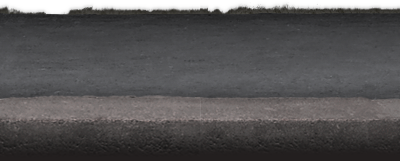
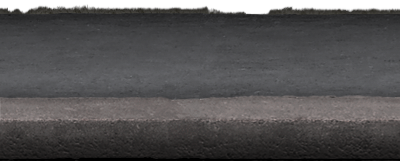
add visual elements to the background

diff --git a/public/css/main.css b/public/css/main.css
@@ -634,28 +634,31 @@ textarea {
 /* Layout
    -------------------------------------------------------------------------- */
 html {
-  background: black url(img/concrete.png);
+  background: linear-gradient(to top, rgba(0, 0, 0, 0.45), transparent 300px, transparent), url(img/concrete.jpg);
   border-top: 6px solid #e67300;
   position: relative; }
   html:after {
     content: "";
-    background: url(img/sidewalk.png) repeat-x;
-    height: 155px;
+    background: url(img/sidewalk.png) bottom repeat-x;
     position: absolute;
+    top: 0;
     right: 0;
     bottom: 0;
-    left: 0; }
+    left: 0;
+    z-index: 0; }
 
 body {
   font-size: 1.8em;
-  margin: 6px 0 210px; }
+  margin: 6px 0 210px;
+  position: relative;
+  z-index: 1; }
 
 /* Header
    -------------------------------------------------------------------------- */
 body > header {
   font-size: .75em;
   color: #e6e6e6;
-  text-shadow: 1px 1px 1px black;
+  text-shadow: 1px 1px 0 black;
   margin: 1.5em 1em; }
   body > header h1 {
     font-weight: normal;
@@ -671,7 +674,7 @@ body > header {
   margin: 2em auto 0; }
   [role="main"] > article {
     background: #e6e6e6 url(img/paper.png);
-    box-shadow: 0 0 3px black;
+    box-shadow: 0 0 2px rgba(0, 0, 0, 0.75);
     padding: .9em; }
     [role="main"] > article header {
       text-align: center; }
@@ -681,10 +684,11 @@ body > header {
       display: inline-block;
       border-bottom: 3px solid #4d4d4d; }
   [role="main"] > aside {
+    font-size: 1.2em;
+    text-shadow: 1px 1px 0px rgba(0, 0, 0, 0.45);
     margin-top: 3em; }
     [role="main"] > aside ul {
       display: table;
-      font-size: 1.2em;
       list-style: none;
       padding: 0;
       margin: 0 auto; }
@@ -700,6 +704,14 @@ body > header {
     40
    -------------------------------------------------------------------------- */
 @media only screen and (min-width: 40em) {
+  /*  Layout
+     ---------------------------------- */
+  html:after {
+    background: url(img/letterbox.png) left 120% bottom 90px no-repeat, url(img/sidewalk.png) bottom repeat-x; }
+
+  body {
+    margin-bottom: 240px; }
+
   /*  Header
      ---------------------------------- */
   body > header {
@@ -720,10 +732,12 @@ body > header {
       margin: 0 -1.5em;
       padding: 1.5em;
       border-radius: 2px; }
+    [role="main"] > aside ul {
+      display: block;
+      margin-right: 30%; }
     [role="main"] > aside li {
       display: inline-block;
-      width: 40%;
-      margin: 0 0 0 10%; }
+      width: 50%; }
     [role="main"] > aside li + li {
       margin-top: 0; }
     [role="main"] > aside li:nth-child(n+3) {
@@ -732,6 +746,11 @@ body > header {
     60
    -------------------------------------------------------------------------- */
 @media only screen and (min-width: 60em) {
+  /*  Layout
+     ---------------------------------- */
+  html:after {
+    background-position: right 12% bottom 96px, bottom; }
+
   /*  Main
      ---------------------------------- */
   [role="main"] {
@@ -749,7 +768,8 @@ body > header {
       clear: both; }
     [role="main"] > article {
       float: left;
-      width: 65%; }
+      width: 65%;
+      box-shadow: 1px 1px 3px rgba(0, 0, 0, 0.75); }
     [role="main"] > aside {
       float: right;
       width: 30%;
@@ -762,6 +782,14 @@ body > header {
         width: auto; }
       [role="main"] > aside li + li {
         margin-top: 1em; } }
+/* --------------------------------------------------------------------------
+    90
+   -------------------------------------------------------------------------- */
+@media only screen and (min-width: 90em) {
+  /*  Layout
+     ---------------------------------- */
+  html:after {
+    background: url(img/letterbox.png) right 210px bottom 96px no-repeat, url(img/graff.png) left -240px bottom 180px no-repeat, url(img/sidewalk.png) bottom repeat-x; } }
 /* ==========================================================================
     PRINT
    ========================================================================== */

diff --git a/public/scss/main.scss b/public/scss/main.scss
@@ -12,23 +12,28 @@
    -------------------------------------------------------------------------- */
 
 html {
-  background: black url(img/concrete.png);
+  background:
+    linear-gradient(to top, rgba(0,0,0,.45), transparent 300px, transparent),
+    url(img/concrete.jpg);
   border-top: 6px solid $orange;
   position: relative;
   &:after {
     content: "";
-    background: url(img/sidewalk.png) repeat-x;
-    height: 155px;
+    background: url(img/sidewalk.png) bottom repeat-x;
     position: absolute;
+    top: 0;
     right: 0;
     bottom: 0;
     left: 0;
+    z-index: 0;
   }
 }
 
 body {
   font-size: 1.8em;
   margin: 6px 0 210px;
+  position: relative;
+  z-index: 1;
 }
 
 
@@ -38,7 +43,7 @@ body {
 body > header {
   font-size: .75em;
   color: hsl(0, 0, 90);
-  text-shadow: 1px 1px 1px black;
+  text-shadow: 1px 1px 0 black;
   margin: 1.5em 1em;
   h1 {
     font-weight: normal;
@@ -55,7 +60,7 @@ body > header {
   margin: 2em auto 0;
   > article {
     background: hsl(30, 0, 90) url(img/paper.png);
-    box-shadow: 0 0 3px black;
+    box-shadow: 0 0 2px hsla(0,0,0,.75);
     padding: .9em;
     header {
       text-align: center;
@@ -69,10 +74,11 @@ body > header {
   }
 
   > aside {
+    font-size: 1.2em;
+    text-shadow: 1px 1px 0px hsla(0,0,0,.45);
     margin-top: 3em;
     ul {
       display: table;
-      font-size: 1.2em;
       list-style: none;
       padding: 0;
       margin: 0 auto;
@@ -95,6 +101,21 @@ body > header {
    -------------------------------------------------------------------------- */
 
 @media only screen and (min-width: 40em) {
+
+/*  Layout
+   ---------------------------------- */
+
+html {
+  &:after {
+    background:
+      url(img/letterbox.png) left 120% bottom 90px no-repeat,
+      url(img/sidewalk.png) bottom repeat-x;
+  }
+}
+
+body {
+  margin-bottom: 240px;
+}
 
 /*  Header
    ---------------------------------- */
@@ -120,10 +141,13 @@ body > header {
     border-radius: 2px;
   }
   > aside {
+    ul {
+      display: block;
+      margin-right: 30%;
+    }
     li {
       display: inline-block;
-      width: 40%;
-      margin: 0 0 0 10%;
+      width: 50%;
     }
     li + li { margin-top: 0; }
     li:nth-child(n+3) { margin-top: 1em; }
@@ -139,6 +163,16 @@ body > header {
 
 @media only screen and (min-width: 60em) {
 
+
+/*  Layout
+   ---------------------------------- */
+
+html:after {
+  background-position:
+    right 12% bottom 96px,
+    bottom;
+}
+
 /*  Main
    ---------------------------------- */
 
@@ -147,6 +181,7 @@ body > header {
   > article {
     float: left;
     width: 65%;
+    box-shadow: 1px 1px 3px hsla(0,0,0,.75);
   }
   > aside {
     float: right;
@@ -164,6 +199,25 @@ body > header {
 
 }
 
+
+
+/* --------------------------------------------------------------------------
+    90
+   -------------------------------------------------------------------------- */
+
+@media only screen and (min-width: 90em) {
+
+/*  Layout
+   ---------------------------------- */
+
+html:after {
+  background:
+    url(img/letterbox.png) right 210px bottom 96px no-repeat,
+    url(img/graff.png) left -240px bottom 180px no-repeat,
+    url(img/sidewalk.png) bottom repeat-x;
+}
+
+}
 
 
 /* ==========================================================================
